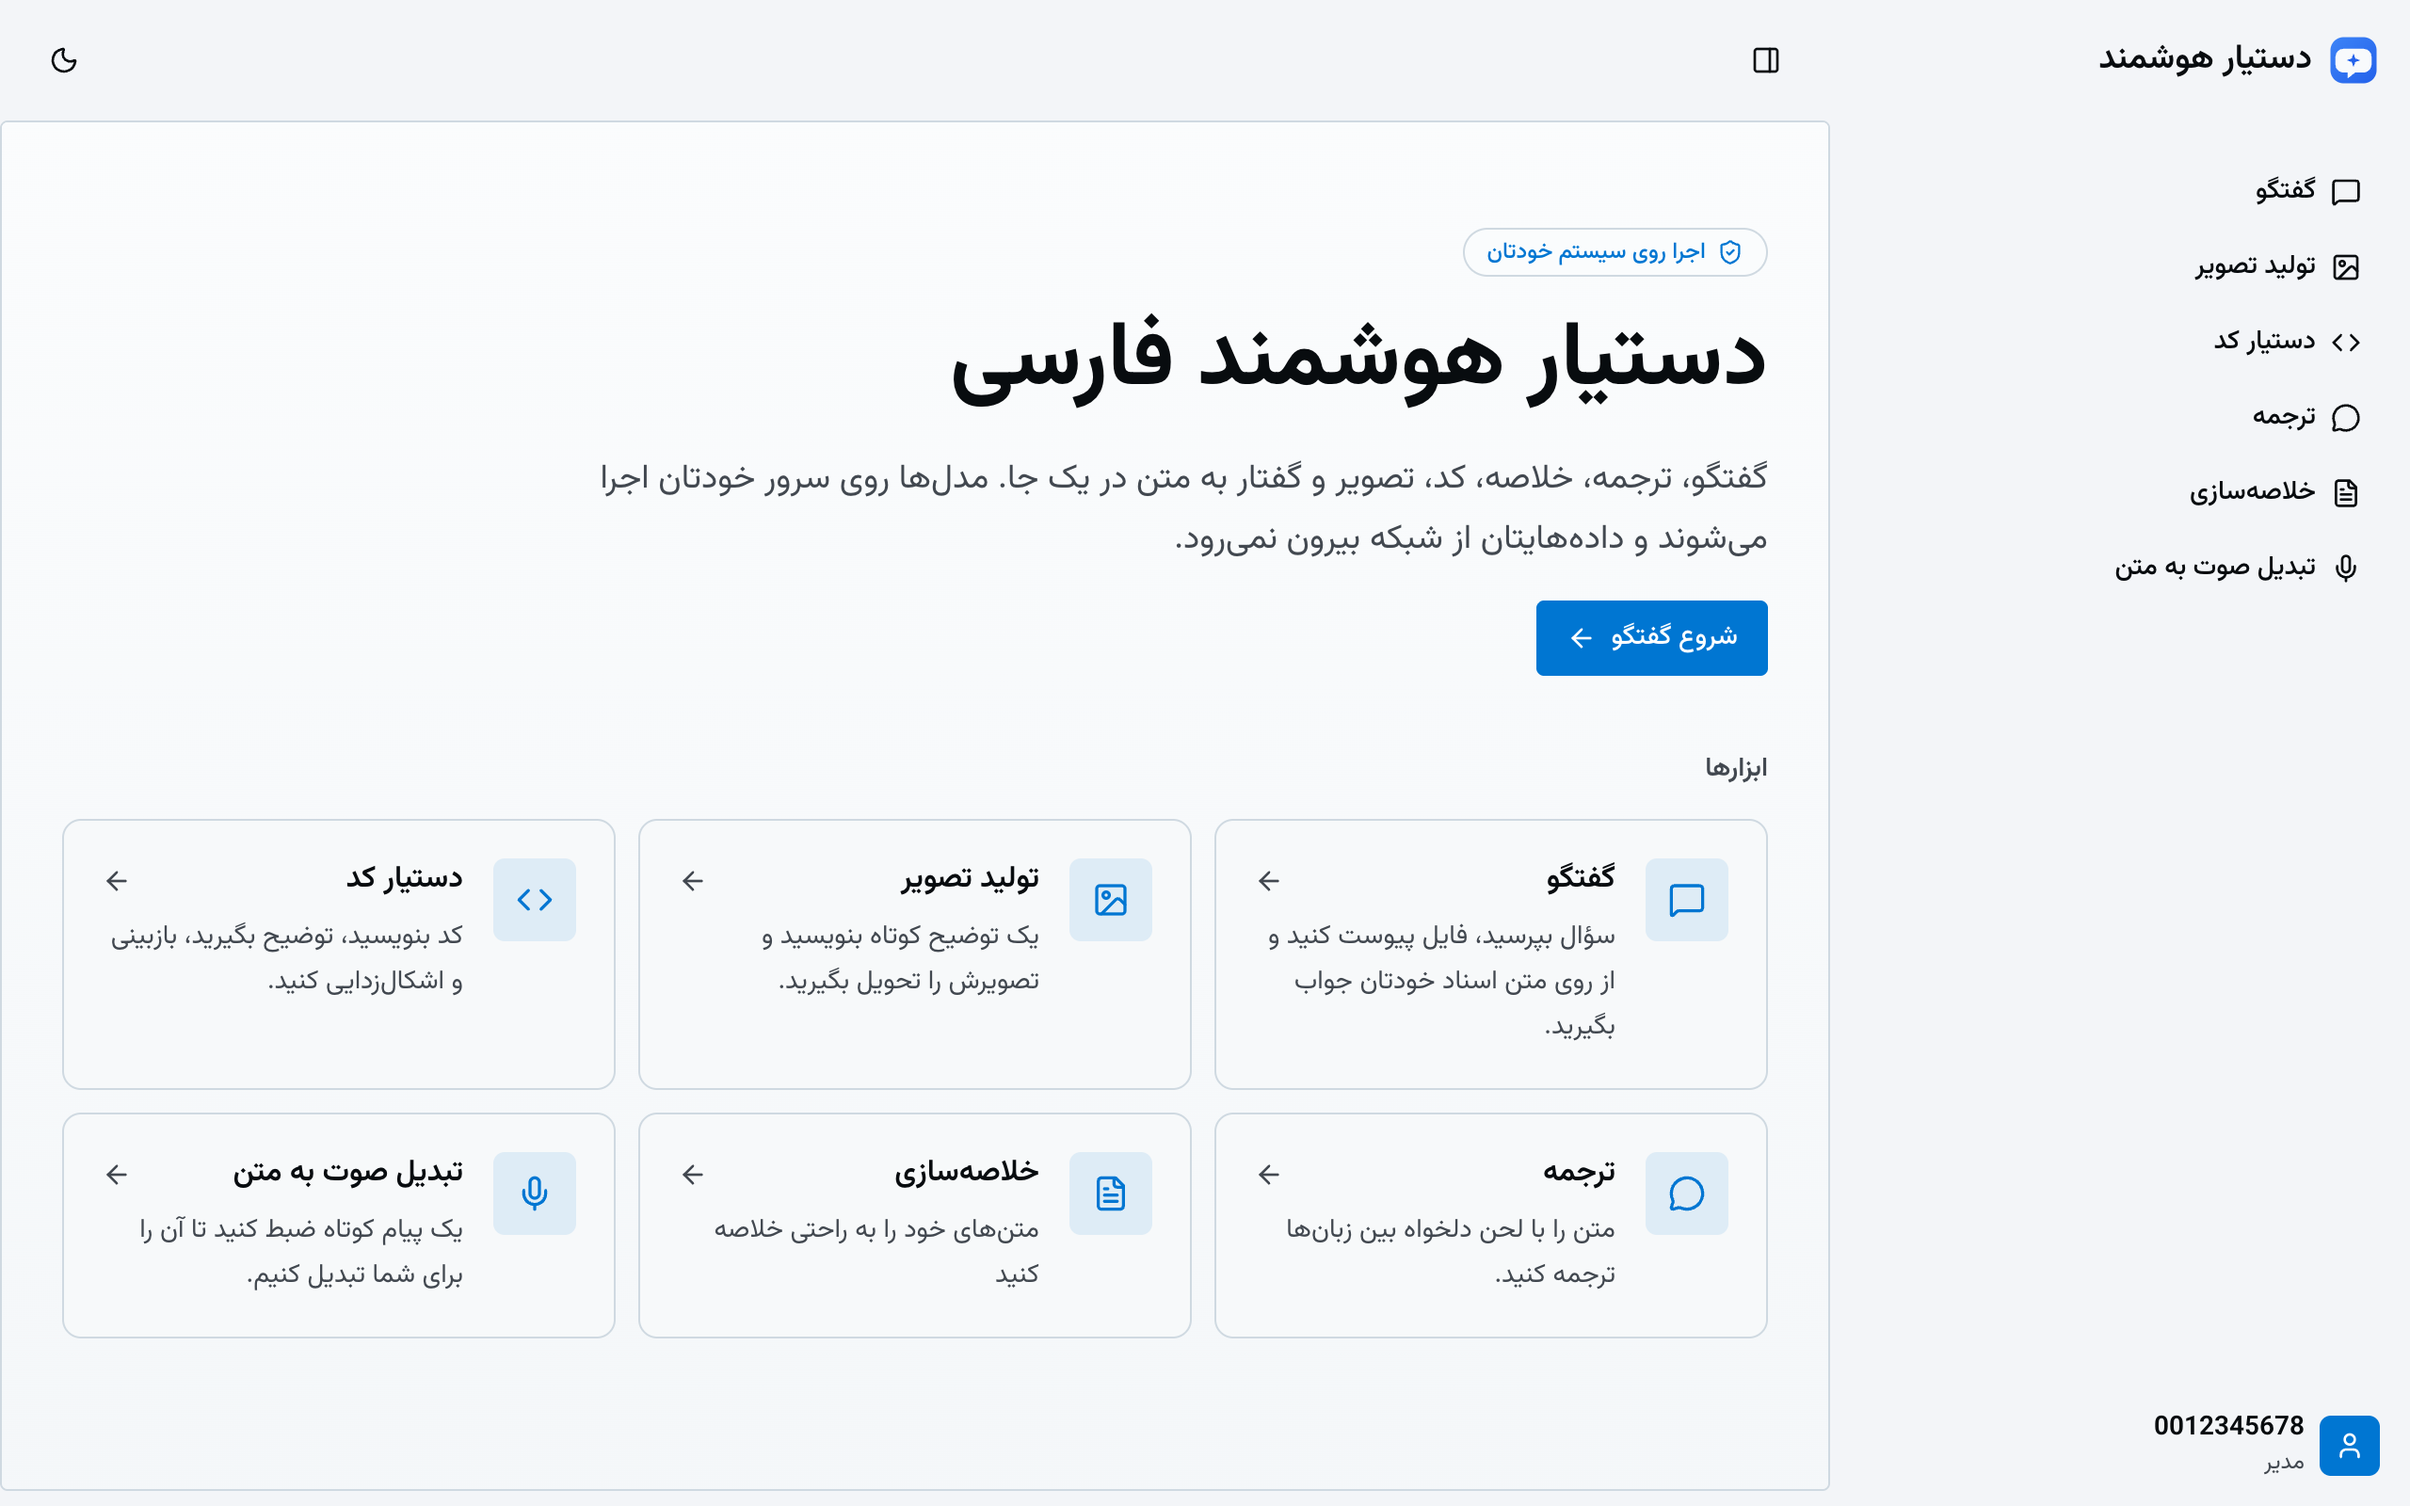
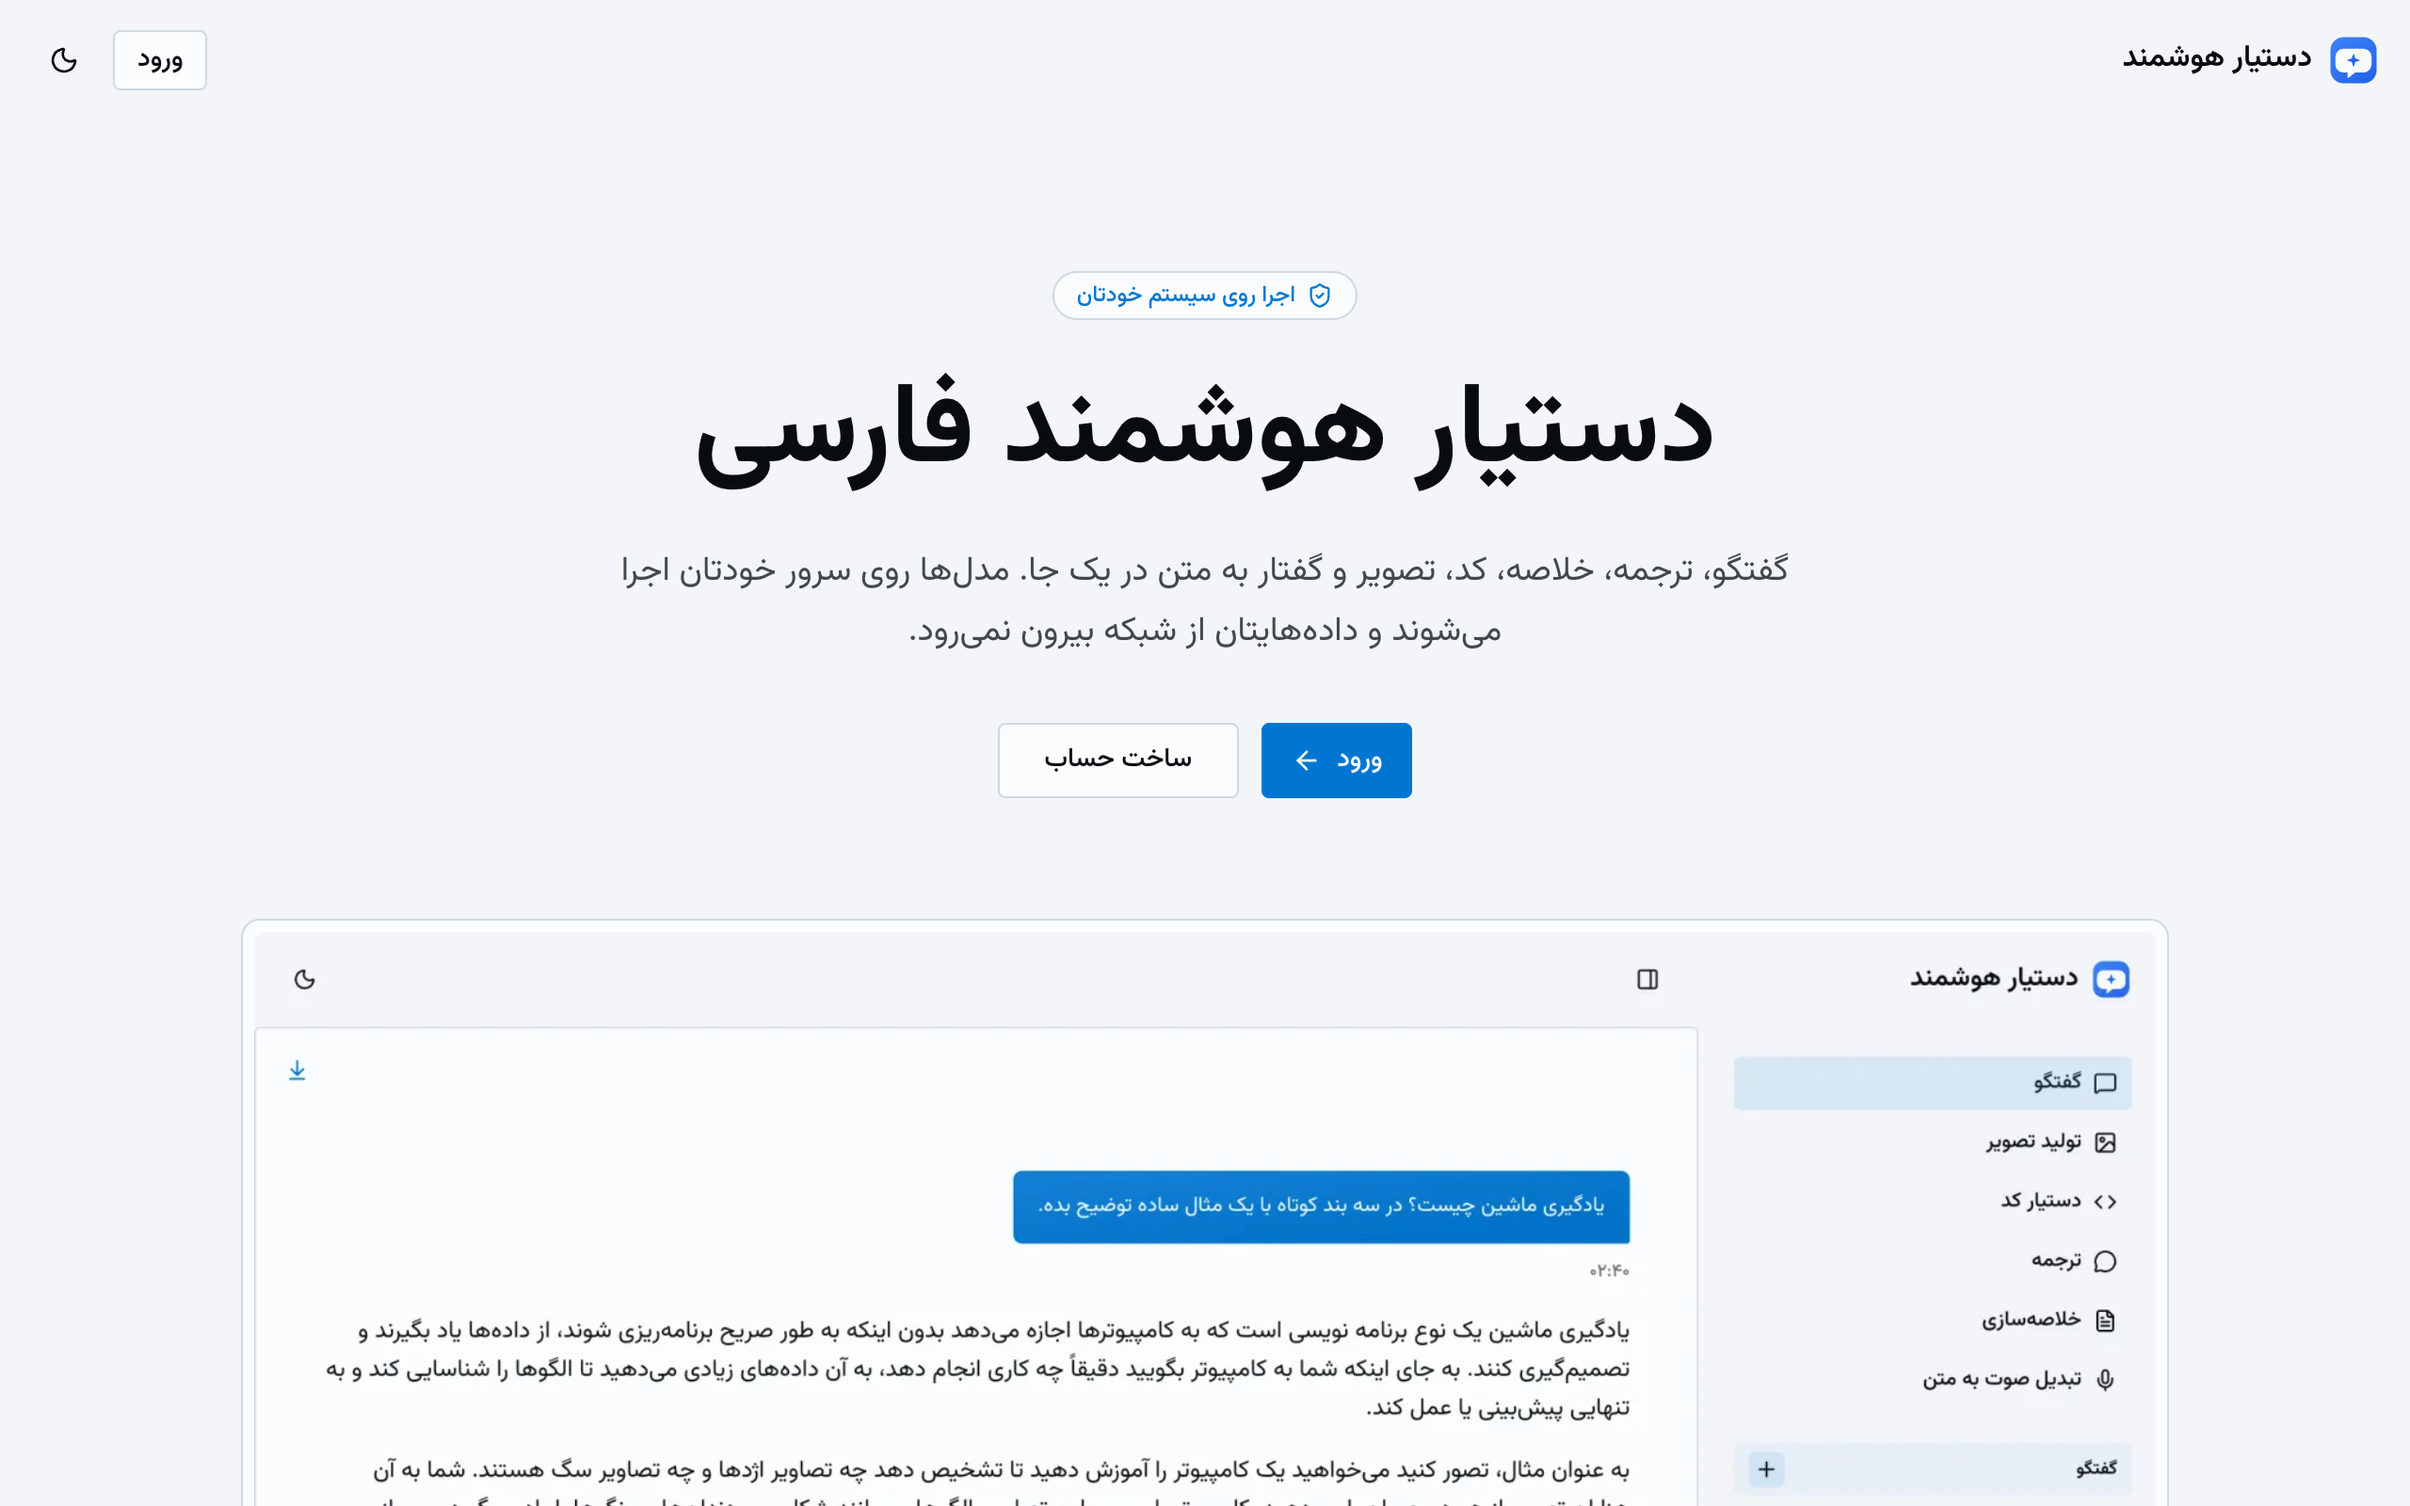
docs: show the landing page in the README

diff --git a/README.md b/README.md
@@ -4,9 +4,9 @@ A local-first, Persian-first AI assistant: chat, document Q&A, translation, summ
 
 ![Chat with a local model](docs/screenshots/chat.png)
 
-| Home | Chat, dark theme |
+| Landing page | Chat, dark theme |
 | --- | --- |
-| ![Home page with the tool list](docs/screenshots/home.png) | ![Chat in the dark theme](docs/screenshots/chat-dark.png) |
+| ![Landing page](docs/screenshots/home.png) | ![Chat in the dark theme](docs/screenshots/chat-dark.png) |
 | **Speech to text** | **Admin panel** |
 | ![Speech to text with a local Whisper model](docs/screenshots/transcribe.png) | ![Admin panel with users and models](docs/screenshots/admin.png) |
 
